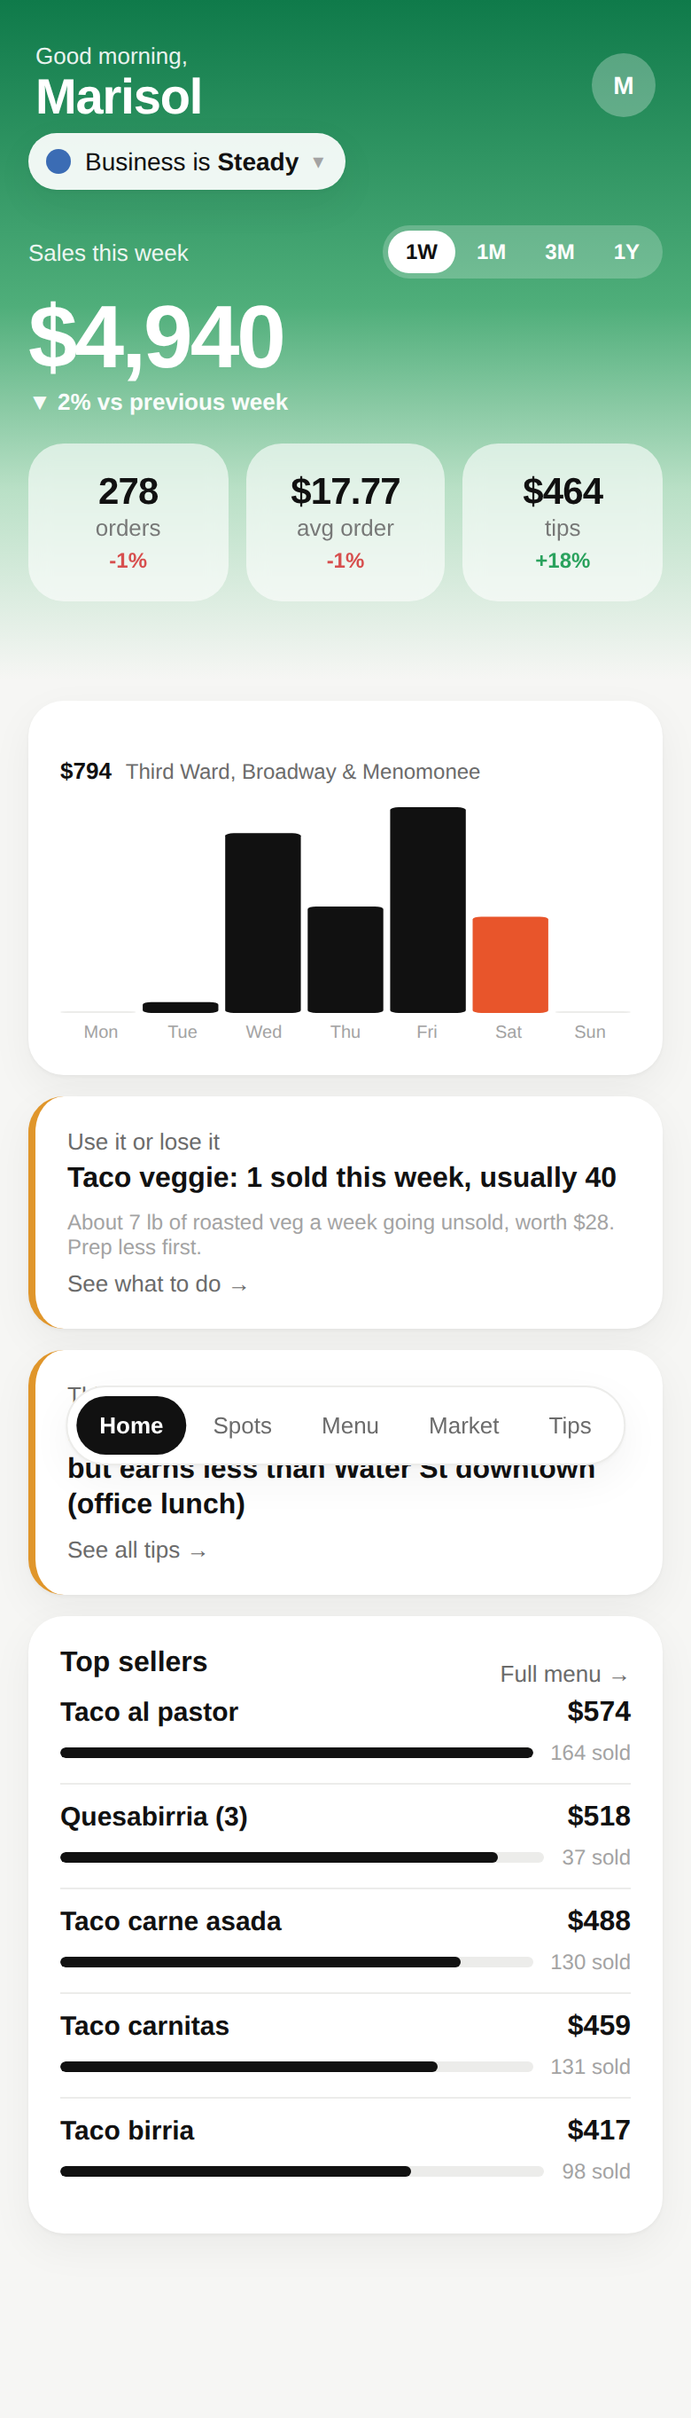
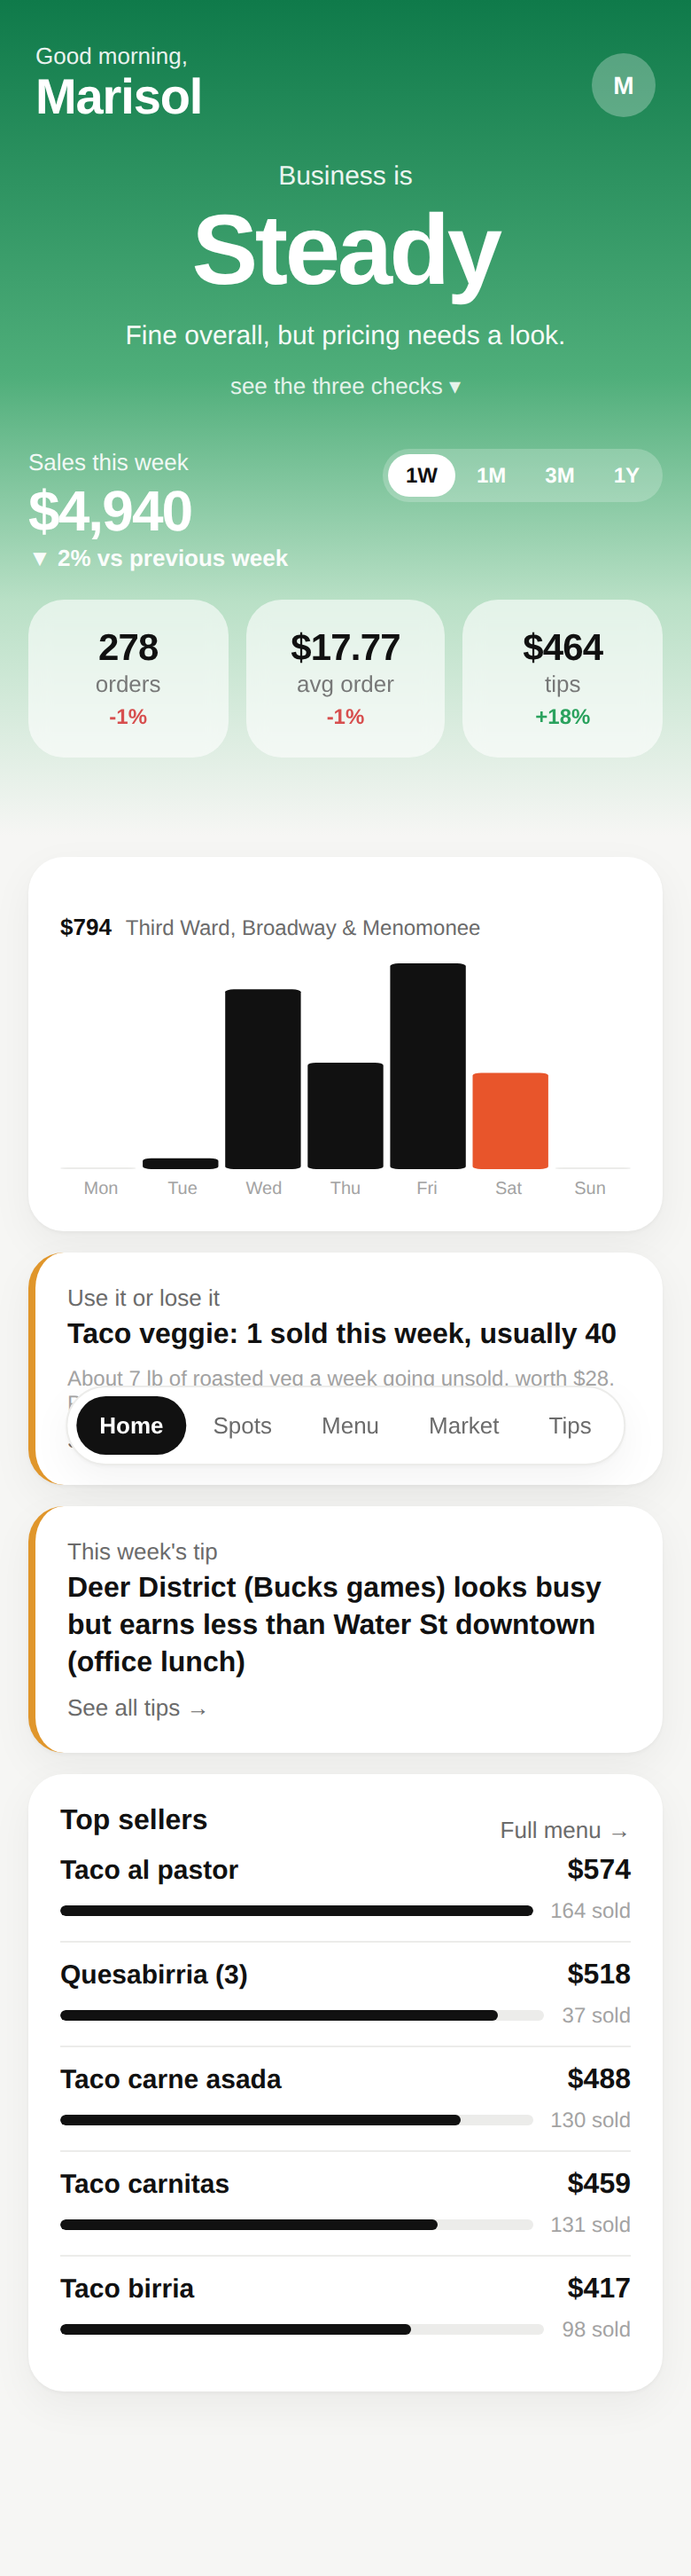
Make the business rating the hero of the Home header
Claude-Session: https://claude.ai/code/session_011kULvXi1EhLGoQfkcWDNEp

diff --git a/food-truck-app/src/screens/Home.tsx b/food-truck-app/src/screens/Home.tsx
@@ -32,10 +32,11 @@ export default function Home({ range, setRange }: { range: RangeKey; setRange: (
           <div className="avatar" aria-hidden>{data.truck.owner[0]}</div>
         </header>
 
-        <button className={`rating-pill ${h.tone}`} onClick={() => setWhy(!why)} aria-expanded={why}>
-          <span className="dot" aria-hidden />
-          <span>Business is <b>{h.rating}</b></span>
-          <span className="chev">{why ? '▴' : '▾'}</span>
+        <button className={`rating-hero ${h.tone}`} onClick={() => setWhy(!why)} aria-expanded={why}>
+          <div className="label">Business is</div>
+          <div className="rating-big">{h.rating}</div>
+          <div className="rating-sum">{h.summary}</div>
+          <div className="rating-why">{why ? 'hide the checks ▴' : 'see the three checks ▾'}</div>
         </button>
         {why && (
           <ul className="checks glass">
@@ -49,11 +50,13 @@ export default function Home({ range, setRange }: { range: RangeKey; setRange: (
         )}
 
         <div className="row hero-row">
-          <div className="label">Sales this {label}</div>
+          <div>
+            <div className="label">Sales this {label}</div>
+            <div className="mid">{money(now.gross)}</div>
+            <Delta value={pctChange(now.gross, prev.gross)} suffix={`vs previous ${label}`} />
+          </div>
           <Pills value={range} onChange={setRange} />
         </div>
-        <div className="big">{money(now.gross)}</div>
-        <Delta value={pctChange(now.gross, prev.gross)} suffix={`vs previous ${label}`} />
 
         <div className="tiles">
           <Tile value={now.orders.toLocaleString()} label="orders" delta={pctChange(now.orders, prev.orders)} />

diff --git a/food-truck-app/src/app.css b/food-truck-app/src/app.css
@@ -191,3 +191,15 @@ a.plain { text-decoration: none; color: inherit; }
 .checks.glass li span:not(.dot) { color: var(--ink-2); }
 
 .stock-row + .stock-row { margin-top: 10px; padding-top: 10px; border-top: 1px solid var(--line); }
+
+/* rating as the hero */
+.rating-hero {
+  display: block; width: 100%; text-align: center; border: 0; background: transparent; color: #fff;
+  font: inherit; cursor: pointer; padding: 18px 0 10px;
+}
+.rating-hero .label { font-size: 15px; opacity: 0.9; }
+.rating-big { font-size: 56px; font-weight: 700; letter-spacing: -0.03em; line-height: 1.05; margin: 4px 0 8px; }
+.rating-hero .rating-sum { font-size: 15px; color: #fff; opacity: 0.95; max-width: 300px; margin: 0 auto; line-height: 1.4; }
+.rating-why { margin-top: 10px; font-size: 13px; opacity: 0.85; }
+.grad .hero-row { margin-top: 18px; align-items: flex-start; }
+.grad .mid { font-size: 32px; font-weight: 700; letter-spacing: -0.03em; line-height: 1.05; margin: 4px 0 2px; }
